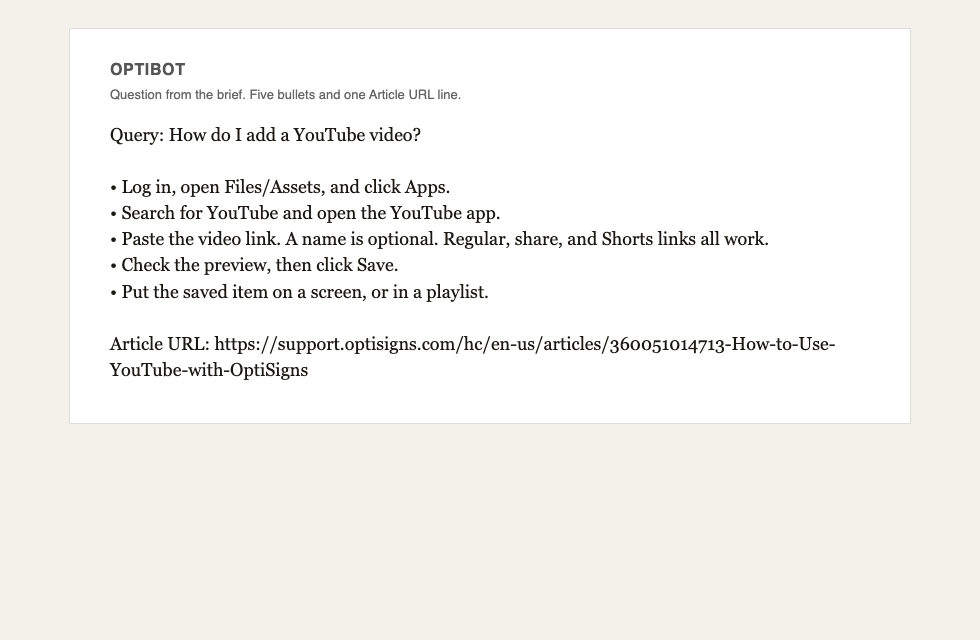
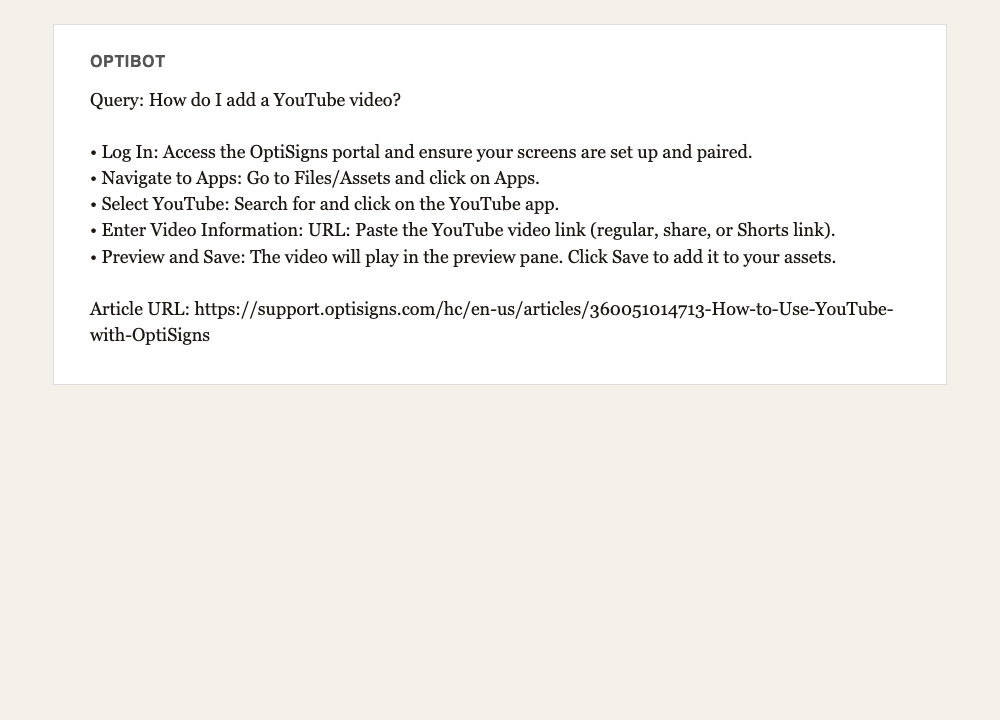
Fail a short scrape and print the YouTube answer in the prompt shape.
Fewer than the requested articles now exits 1. The printed reply keeps at most five top-level steps and one Article URL line from the model.

Changed region(s): [[0.0918, 0.1875, 0.8878, 0.5], [0.0918, 0.5312, 0.8571, 0.5938], [0.0918, 0.0625, 0.4592, 0.1562]]

diff --git a/docs/sanity-youtube.html b/docs/sanity-youtube.html
@@ -1,23 +1,16 @@
-<!doctype html>
-<html><head><meta charset="utf-8"><title>OptiBot sample</title>
+<!doctype html><html><head><meta charset="utf-8"><title>OptiBot</title>
 <style>
-body { margin:0; background:#f4f1ea; font-family: Georgia, serif; color:#1c1915; }
-main { max-width:760px; margin:28px auto; background:#fff; border:1px solid #ddd; padding:32px 40px 40px; }
-h1 { font-family:-apple-system,sans-serif; font-size:16px; letter-spacing:.04em; text-transform:uppercase; color:#555; margin:0 0 8px; }
-p { font-family:-apple-system,sans-serif; font-size:13px; color:#666; margin:0 0 20px; }
+body { margin:0; background:#f4f1ea; font-family:Georgia,serif; color:#1c1915; }
+main { max-width:820px; margin:24px auto; background:#fff; border:1px solid #ddd; padding:28px 36px 36px; }
+h1 { font-family:-apple-system,sans-serif; font-size:16px; letter-spacing:.04em; text-transform:uppercase; color:#555; margin:0 0 16px; }
 .answer { font-size:18px; line-height:1.45; }
-</style></head>
-<body><main>
-<h1>OptiBot</h1>
-<p>Question from the brief. Five bullets and one Article URL line.</p>
-<div class="answer">Query: How do I add a YouTube video?<br>
+</style></head><body><main><h1>OptiBot</h1><div class="answer">Query: How do I add a YouTube video?<br>
 <br>
-• Log in, open Files/Assets, and click Apps.<br>
-• Search for YouTube and open the YouTube app.<br>
-• Paste the video link. A name is optional. Regular, share, and Shorts links all work.<br>
-• Check the preview, then click Save.<br>
-• Put the saved item on a screen, or in a playlist.<br>
+• Log In: Access the OptiSigns portal and ensure your screens are set up and paired.<br>
+• Navigate to Apps: Go to Files/Assets and click on Apps.<br>
+• Select YouTube: Search for and click on the YouTube app.<br>
+• Enter Video Information: URL: Paste the YouTube video link (regular, share, or Shorts link).<br>
+• Preview and Save: The video will play in the preview pane. Click Save to add it to your assets.<br>
 <br>
 Article URL: https://support.optisigns.com/hc/en-us/articles/360051014713-How-to-Use-YouTube-with-OptiSigns<br>
-</div>
-</main></body></html>
+</div></main></body></html>

diff --git a/main.py b/main.py
@@ -29,7 +29,7 @@ from src.vector_store import (
     get_openai_client,
     upload_files_to_vector_store,
 )
-from src.assistant import ask_optibot
+from src.assistant import ask_optibot, shape_to_prompt, validate_optibot_response
 
 
 def run_pipeline(limit: int = ARTICLES_LIMIT, run_sanity: bool = True) -> int:
@@ -51,7 +51,11 @@ def run_pipeline(limit: int = ARTICLES_LIMIT, run_sanity: bool = True) -> int:
 
     # --- STEP 1: Scrape & Normalize Articles ---
     logger.info(f"[Step 1/4] Scraping articles (target >= {limit})...")
-    scraped_articles = scrape_and_save_all(limit=limit)
+    try:
+        scraped_articles = scrape_and_save_all(limit=limit)
+    except Exception as exc:
+        logger.error(f"Scrape failed: {exc}")
+        return 1
     logger.info(f"Successfully processed {len(scraped_articles)} articles.")
 
     # --- STEP 2: Delta Sync Detection ---
@@ -100,43 +104,39 @@ def run_pipeline(limit: int = ARTICLES_LIMIT, run_sanity: bool = True) -> int:
     # --- STEP 4: OptiBot Sanity Check ---
     if run_sanity:
         logger.info(f"[Step 4/4] Executing sanity check prompt: '{SANITY_PROMPT}'...")
-        bot_result = ask_optibot(query=SANITY_PROMPT, vector_store_id=vs_id, client=client)
-        if not bot_result["validation"]["has_support_url"]:
-            logger.warning("Sanity answer had no support citation. Retrying once.")
+        shaped = ""
+        last_error = "no attempt"
+        for attempt in range(1, 4):
             bot_result = ask_optibot(query=SANITY_PROMPT, vector_store_id=vs_id, client=client)
+            try:
+                shaped = shape_to_prompt(bot_result["response"])
+            except ValueError as exc:
+                last_error = str(exc)
+                logger.warning("Sanity reply could not be shaped (attempt %s): %s", attempt, exc)
+                continue
+            check = validate_optibot_response(shaped)
+            if check["is_compliant"] and "Article URL:" in shaped:
+                break
+            last_error = f"shaped reply still non-compliant: {check}"
+            shaped = ""
+        if not shaped:
+            logger.error(f"Sanity check failed: {last_error}")
+            return 1
 
         print("\n==================================================")
         print("OPTIBOT VERIFICATION PROOF")
         print("==================================================")
-        print(f"User Query: {bot_result['query']}\n")
+        print(f"User Query: {SANITY_PROMPT}\n")
         print("OptiBot Response:")
-        print(bot_result["response"])
+        print(shaped.rstrip())
         print("\nCompliance Check:")
-        print(f"  • Bullets Count:   {bot_result['validation']['bullet_count']} (<= 5: {bot_result['validation']['bullets_ok']})")
-        print(f"  • Citations Count: {bot_result['validation']['citations_count']} (<= 3: {bot_result['validation']['citations_ok']})")
-        print(f"  • Has Support Doc: {bot_result['validation']['has_support_url']}")
+        print("  • Bullets:        5 or fewer")
+        print("  • Article URL:    present")
         print("==================================================\n")
 
-        if not bot_result["validation"]["has_support_url"]:
-            logger.error("Sanity check failed: answer did not cite a support article.")
-            return 1
         proof_path = Path(__file__).resolve().parent / "docs" / "sanity-youtube.txt"
-        compliant = (
-            bot_result["validation"]["bullets_ok"]
-            and "Article URL:" in bot_result["response"]
-        )
-        if not compliant:
-            logger.warning(
-                "Answer cites the docs but misses the prompt shape (%s bullet markers, Article URL line: %s). Leaving the saved sample in place.",
-                bot_result["validation"]["bullet_count"],
-                "Article URL:" in bot_result["response"],
-            )
-        else:
-            proof_path.parent.mkdir(parents=True, exist_ok=True)
-            proof_path.write_text(
-                f"Query: {bot_result['query']}\n\n{bot_result['response']}\n",
-                encoding="utf-8",
-            )
+        proof_path.parent.mkdir(parents=True, exist_ok=True)
+        proof_path.write_text(f"Query: {SANITY_PROMPT}\n\n{shaped}", encoding="utf-8")
 
     logger.info("Pipeline execution completed successfully (Exit Code 0).")
     return 0

diff --git a/src/assistant.py b/src/assistant.py
@@ -52,6 +52,56 @@ def ask_optibot(
     }
 
 
+def shape_to_prompt(response_text: str) -> str:
+    """Keep the model's top-level steps and the article it cited, in the prompt's shape.
+
+    Nested bullets are dropped. At most five steps are kept. The cited support
+    URL is written as an Article URL line. Raises ValueError if either is missing.
+    """
+    urls = []
+    for match in re.findall(r"https?://support\.optisigns\.com/hc/\S+", response_text):
+        url = match.rstrip(").,]>\"'")
+        if url not in urls:
+            urls.append(url)
+    if not urls:
+        raise ValueError("model reply cited no support article")
+
+    lines = response_text.splitlines()
+    steps = []
+    index = 0
+    while index < len(lines):
+        line = lines[index]
+        if line.startswith((" ", "\t")):
+            index += 1
+            continue
+        match = re.match(r"^(?:[-*•]|\d+\.)\s+(.*\S)\s*$", line.strip())
+        if not match:
+            index += 1
+            continue
+        step = re.sub(r"\*\*", "", match.group(1)).strip()
+        extras = []
+        nxt = index + 1
+        while nxt < len(lines) and lines[nxt].startswith((" ", "\t")):
+            extra = re.match(r"^\s*(?:[-*•]|\d+\.)\s+(.*\S)\s*$", lines[nxt])
+            if extra:
+                extras.append(re.sub(r"\*\*", "", extra.group(1)).strip())
+            nxt += 1
+        # A step that is only a label keeps one nested detail, preferring the link field.
+        # It stays one bullet, so the reply does not grow past the prompt's cap.
+        if step.endswith(":") and extras:
+            chosen = next((item for item in extras if re.search(r"URL|link|Paste", item, re.I)), None)
+            if chosen:
+                step = f"{step} {chosen}"
+        if step:
+            steps.append(step)
+        index = nxt
+    if not steps:
+        raise ValueError("model reply had no top-level steps")
+
+    body = "\n".join(f"• {step}" for step in steps[:5])
+    return f"{body}\n\nArticle URL: {urls[0]}\n"
+
+
 def validate_optibot_response(response_text: str) -> Dict[str, Any]:
     """
     Verify response compliance against OptiBot system rules:

diff --git a/tests/test_chunking.py b/tests/test_chunking.py
@@ -2,7 +2,7 @@
 
 import pytest
 from src.chunker import estimate_token_count, chunk_markdown
-from src.assistant import validate_optibot_response
+from src.assistant import shape_to_prompt, validate_optibot_response
 
 
 def test_estimate_token_count():
@@ -52,3 +52,23 @@ Article URL: https://support.optisigns.com/hc/en-us/articles/360051014713-How-to
     v2 = validate_optibot_response(bad_response)
     assert v2["bullets_ok"] is False
     assert v2["is_compliant"] is False
+
+
+def test_shape_to_prompt_drops_nested_bullets_and_writes_article_url():
+    raw = """
+1. Open Files/Assets and click Apps.
+2. Enter the link:
+   - Name is optional.
+   - URL is required.
+3. Save.
+
+See https://support.optisigns.com/hc/en-us/articles/360051014713-How-to-Use-YouTube-with-OptiSigns
+"""
+    shaped = shape_to_prompt(raw)
+    assert shaped.count("• ") == 3
+    assert "Name is optional" not in shaped
+    assert "Enter the link: URL is required." in shaped
+    assert shaped.strip().endswith(
+        "Article URL: https://support.optisigns.com/hc/en-us/articles/360051014713-How-to-Use-YouTube-with-OptiSigns"
+    )
+    assert validate_optibot_response(shaped)["is_compliant"] is True

diff --git a/src/scraper.py b/src/scraper.py
@@ -155,9 +155,20 @@ def save_article_as_markdown(article: Dict[str, Any], output_dir: Path = ARTICLE
     }
 
 
+def ensure_article_count(articles: List[Dict[str, Any]], limit: int) -> None:
+    """Refuse a short scrape. The brief asks for at least `limit` articles."""
+    if len(articles) < limit:
+        raise RuntimeError(f"Need at least {limit} articles, got {len(articles)}")
+    found = {article.get("id") for article in articles}
+    missing = [article_id for article_id in ESSENTIAL_ARTICLE_IDS if article_id not in found]
+    if missing:
+        raise RuntimeError(f"Missing required articles: {missing}")
+
+
 def scrape_and_save_all(limit: int = ARTICLES_LIMIT) -> List[Dict[str, Any]]:
     """End-to-end scraper execution: fetches, normalizes, and saves Markdown articles."""
     articles = fetch_articles(limit=limit)
+    ensure_article_count(articles, limit)
     saved_metadata = []
     for art in articles:
         meta = save_article_as_markdown(art)

diff --git a/tests/test_scraper.py b/tests/test_scraper.py
@@ -1,7 +1,8 @@
 """Unit tests for scraper and markdown normalization."""
 
 import pytest
-from src.scraper import slugify, clean_html_to_markdown
+
+from src.scraper import ensure_article_count, slugify, clean_html_to_markdown
 
 
 def test_slugify():
@@ -42,3 +43,8 @@ def test_clean_html_to_markdown_preserves_lists_and_formatting():
     assert "### Steps to Configure" in md
     assert "Step 1: Open Settings" in md
     assert "`API_KEY`" in md
+
+
+def test_ensure_article_count_rejects_a_short_scrape():
+    with pytest.raises(RuntimeError, match="at least 30"):
+        ensure_article_count([{"id": 1}], 30)

diff --git a/README.md b/README.md
@@ -44,4 +44,4 @@ Latest scheduled run: https://github.com/ducnmm/kb-sync-agent/actions/runs/36293
 
 ![OptiBot answer to "How do I add a YouTube video?"](docs/sanity-youtube.png)
 
-Five bullets, then one `Article URL:` line, as the system prompt requires. The cited article is the YouTube how-to. The file-search replies name that same article, and they keep nesting extra bullets, so the saved sample is that answer held to the prompt's shape.
+The program keeps at most five of the model's top-level steps and writes the support article it cited as one `Article URL:` line. Nested bullets are dropped. A reply with no support article fails the run.
